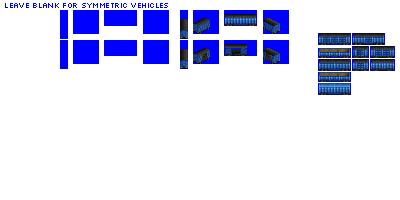
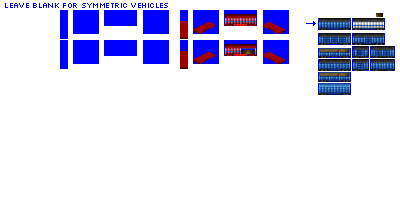
Change: – graphics for gen 5C box, fruit_veg and reefer cars

Changed region(s): [[0.45, 0.21, 0.72, 0.36], [0.45, 0.06, 0.72, 0.21], [0.78, 0.06, 0.96, 0.15]]

diff --git a/src/vehicles/box_cars.py b/src/vehicles/box_cars.py
@@ -90,104 +90,8 @@ def main():
                             subtype='C')
 
     consist.add_unit(type=FreightCar,
-                     vehicle_length=8)
+                     vehicle_length=8,
+                     chassis='4_axle_cc_filled_32px')
 
 
     # no gen 6 box cars, cap to gen 5 in Pony
-
-    #--------------- llama ----------------------------------------------------------------------
-    consist = BoxCarConsist(roster='llama',
-                            base_numeric_id=590,
-                            gen=1,
-                            subtype='A')
-
-    consist.add_unit(type=FreightCar,
-                     vehicle_length=5)
-
-
-    consist = BoxCarConsist(roster='llama',
-                            base_numeric_id=600,
-                            gen=2,
-                            subtype='A')
-
-    consist.add_unit(type=FreightCar,
-                     vehicle_length=6)
-
-
-    consist = BoxCarConsist(roster='llama',
-                            base_numeric_id=610,
-                            gen=3,
-                            subtype='A')
-
-    consist.add_unit(type=FreightCar,
-                     vehicle_length=7)
-
-
-    consist = BoxCarConsist(roster='llama',
-                            base_numeric_id=620,
-                            gen=1,
-                            subtype='A',
-                            track_type='NG')
-
-    consist.add_unit(type=FreightCar,
-                     vehicle_length=6)
-
-
-    consist = BoxCarConsist(roster='llama',
-                            base_numeric_id=1310,
-                            gen=2,
-                            subtype='A',
-                            track_type='NG')
-
-    consist.add_unit(type=FreightCar,
-                     vehicle_length=6)
-
-
-    #--------------- antelope ----------------------------------------------------------------------
-    consist = BoxCarConsist(roster='antelope',
-                            base_numeric_id=1750,
-                            gen=1,
-                            subtype='A')
-
-    consist.add_unit(type=FreightCar,
-                     vehicle_length=6)
-
-
-    consist = BoxCarConsist(roster='antelope',
-                            base_numeric_id=1740,
-                            gen=2,
-                            subtype='A')
-
-    consist.add_unit(type=FreightCar,
-                     vehicle_length=8)
-
-
-    consist = BoxCarConsist(roster='antelope',
-                            base_numeric_id=2100,
-                            gen=1,
-                            subtype='A',
-                            track_type='NG')
-
-    consist.add_unit(type=FreightCar,
-                     vehicle_length=5)
-
-
-    consist = BoxCarConsist(roster='antelope',
-                            base_numeric_id=1850,
-                            gen=2,
-                            subtype='A',
-                            track_type='NG')
-
-    consist.add_unit(type=FreightCar,
-                     vehicle_length=6)
-
-
-    consist = BoxCarConsist(roster='antelope',
-                            base_numeric_id=1860,
-                            gen=3,
-                            subtype='A',
-                            track_type='NG')
-
-    consist.add_unit(type=FreightCar,
-                     vehicle_length=8)
-

diff --git a/src/vehicles/reefer_cars.py b/src/vehicles/reefer_cars.py
@@ -57,72 +57,5 @@ def main():
                                subtype='C')
 
     consist.add_unit(type=FreightCar,
-                     vehicle_length=8)
-
-
-    #--------------- llama ----------------------------------------------------------------------
-    consist = ReeferCarConsist(roster='llama',
-                               base_numeric_id=1390,
-                               gen=1,
-                               subtype='A',
-                               speedy=True)
-
-    consist.add_unit(type=FreightCar,
-                     vehicle_length=6)
-
-
-    # no gen 2 reefers - straight to gen 3
-    consist = ReeferCarConsist(roster='llama',
-                               base_numeric_id=1400,
-                               gen=3,
-                               subtype='A',
-                               speedy=True)
-
-    consist.add_unit(type=FreightCar,
-                     vehicle_length=6)
-
-
-    consist = ReeferCarConsist(roster='llama',
-                               base_numeric_id=1410,
-                               gen=1,
-                               subtype='A',
-                               speedy=True,
-                               track_type='NG')
-
-    consist.add_unit(type=FreightCar,
-                     vehicle_length=6)
-
-
-    # no gen 2 reefers - straight to gen 3
-    consist = ReeferCarConsist(roster='llama',
-                               base_numeric_id=1420,
-                               gen=3,
-                               subtype='A',
-                               speedy=True,
-                               track_type='NG')
-
-    consist.add_unit(type=FreightCar,
-                     vehicle_length=6)
-
-
-    #--------------- antelope ----------------------------------------------------------------------
-    consist = ReeferCarConsist(roster='antelope',
-                               base_numeric_id=1570,
-                               gen=1,
-                               subtype='A',
-                               speedy=True)
-
-    consist.add_unit(type=FreightCar,
-                     vehicle_length=8)
-
-
-    consist = ReeferCarConsist(roster='antelope',
-                               base_numeric_id=1900,
-                               gen=1,
-                               subtype='A',
-                               speedy=True,
-                               track_type='NG')
-
-    consist.add_unit(type=FreightCar,
-                     vehicle_length=6)
-
+                     vehicle_length=8,
+                     chassis='4_axle_cc_filled_32px')

diff --git a/src/vehicles/fruit_veg_cars.py b/src/vehicles/fruit_veg_cars.py
@@ -64,38 +64,8 @@ def main():
                                  subtype='C')
 
     consist.add_unit(type=FreightCar,
-                     vehicle_length=8)
+                     vehicle_length=8,
+                     chassis='4_axle_cc_filled_32px')
 
 
     # no gen 6 fruit & veg cars, cap to gen 5 in Pony
-
-    #--------------- antelope ----------------------------------------------------------------------
-    consist = FruitVegCarConsist(roster='antelope',
-                                 base_numeric_id=2140,
-                                 gen=1,
-                                 subtype='A',
-                                 track_type='NG')
-
-    consist.add_unit(type=FreightCar,
-                     vehicle_length=5)
-
-
-    consist = FruitVegCarConsist(roster='antelope',
-                                 base_numeric_id=2170,
-                                 gen=2,
-                                 subtype='A',
-                                 track_type='NG')
-
-    consist.add_unit(type=FreightCar,
-                     vehicle_length=6)
-
-
-    consist = FruitVegCarConsist(roster='antelope',
-                                 base_numeric_id=2180,
-                                 gen=3,
-                                 subtype='A',
-                                 track_type='NG')
-
-    consist.add_unit(type=FreightCar,
-                     vehicle_length=8)
-

diff --git a/src/train.py b/src/train.py
@@ -635,6 +635,7 @@ class FruitVegCarConsist(CarConsist):
         self.cargo_age_period = 2 * global_constants.CARGO_AGE_PERIOD
         self.capacity_cost_factor = 1.5
         # Graphics configuration
+        self.generate_unit_roofs = True
         self.gestalt_graphics = GestaltGraphicsBoxCarOpeningDoors(
             recolour_maps=graphics_constants.fruit_veg_livery_recolour_maps)
 
@@ -825,6 +826,7 @@ class ReeferCarConsist(CarConsist):
         self.capacity_cost_factor = 1.5
         self.run_cost_divisor = 6
         # Graphics configuration
+        self.generate_unit_roofs = True
         self.gestalt_graphics = GestaltGraphicsBoxCarOpeningDoors(
             recolour_maps=graphics_constants.refrigerated_livery_recolour_maps)
 
